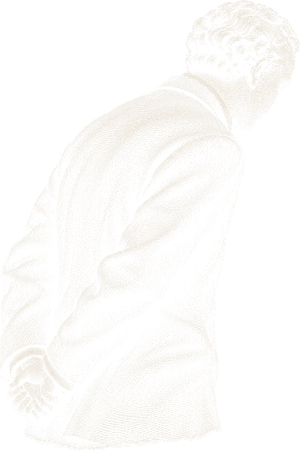
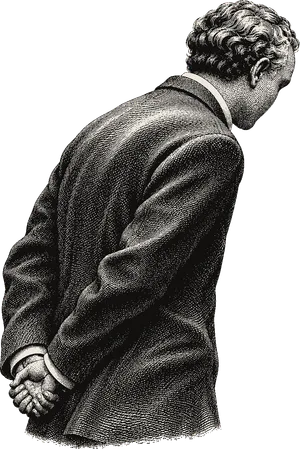
Chess story: club scene, smaller board with the professor's head over it
The board is smaller than the two people at it; the professor stands at its
left, printed solid so the board no longer shows through him, his head over
its far left squares. The author is smaller and further left. His quote moves
above the board, clear of both figures.

diff --git a/src/components/stories/chess/chess.module.css b/src/components/stories/chess/chess.module.css
@@ -193,9 +193,9 @@
   background: conic-gradient(var(--raised) 25%, var(--void) 0 50%, var(--raised) 0 75%, var(--void) 0) 0 0 / 25% 25%;
 }
 .ch-boardwrap { position: relative; width: min(54vh, 78%); aspect-ratio: 1; transition: width 600ms ease, transform 600ms ease; }
-/* At the club the professor stands beside the board, so the two together are
-   centred and sized to the scene: the pair is about 1.6 boards wide. */
-.ch-boardwrap[data-club="true"] { width: min(50vh, 60%); transform: translateX(25%); }
+/* At the club the board is one thing among three: the professor at its left,
+   you in front of it. The three together are centred in the scene. */
+.ch-boardwrap[data-club="true"] { width: min(60vh, 66%); transform: translate(10%, -12%); }
 .ch-boardwrap > .ch-board { position: absolute; inset: 0; z-index: 2; transition: transform 700ms cubic-bezier(0.2, 0.7, 0.2, 1); }
 .ch-boardwrap > .ch-board[data-small="true"] { transform: scale(0.09); }
 /* While the club's own board is on the table, the plain one steps aside. */
@@ -206,19 +206,20 @@
   z-index: 3; padding: 6px 12px; border: 1px solid var(--rule-strong); border-radius: 99px;
   background: var(--void); color: var(--ink-2); font: 500 11px / 1.3 var(--font-mono); letter-spacing: 0.04em; white-space: nowrap;
 }
-/* The club: the board as an object on the table, a little smaller than the
-   plain board so the people around it read as people at a table. */
-.ch-clubBoard { inset: 6% 8%; z-index: 3; display: grid; place-items: center; }
+/* The club: the board as an object on the table, small enough that the two
+   people at it are larger than it is. */
+.ch-clubBoard { inset: 12% 2% 12% 30%; z-index: 3; display: grid; place-items: center; }
 .ch-clubBoard img { display: block; width: 100%; height: auto; }
-/* A half figure on the far side of the table, behind the board's far left
-   corner, bowed over it: the board hides him from the waist down. */
-.ch-professor { z-index: 2; left: -38%; top: -10%; height: 100%; }
-/* You, nearest to us, at the middle of the board's near edge: we look over
-   your shoulder at the game. */
-.ch-me { z-index: 5; left: 8%; top: 62%; height: 118%; }
+/* A half figure standing at the board's left side and bowed over it: his head
+   is over the board's far left squares, so what he looks down at is the game. */
+.ch-professor { z-index: 4; left: -20%; top: 17%; height: 104%; }
+/* You, nearest to us, at the left of the board's near edge: we look over your
+   shoulder at the game. */
+.ch-me { z-index: 5; left: 20%; top: 69%; height: 88%; }
 /* both figures are cut at the waist: fade that edge out where the screen doesn't cut it */
 .ch-professor img, .ch-me img { display: block; width: auto; height: 100%; mask-image: linear-gradient(to bottom, #000 78%, transparent 98%); }
-.ch-said { z-index: 4; right: -12%; bottom: -8%; width: 74%; padding: 16px 18px; border: 1px solid var(--rule-strong); background: var(--void); }
+/* What he said stands above the board, beside his head, clear of both figures. */
+.ch-said { z-index: 6; left: 32%; right: -8%; bottom: 87%; padding: 16px 18px; border: 1px solid var(--rule-strong); background: var(--void); }
 .ch-minis { inset: -22% -34%; z-index: 1; display: grid; grid-template-columns: repeat(18, 1fr); gap: 5px; align-content: center; }
 .ch-minis b { aspect-ratio: 1; border: 1px solid var(--rule); background: var(--raised); }
 .ch-ask { z-index: 5; inset: 28% -8% auto; padding: 22px 24px; border: 1px solid var(--rule-strong); background: color-mix(in srgb, var(--void) 93%, transparent); }
@@ -323,9 +324,8 @@
   .ch-card { width: 100%; padding: 14px 16px 16px; background: color-mix(in srgb, var(--raised) 94%, transparent); }
   .ch-text.ch-cardText { font-size: 16px; }
   .ch-boardwrap { width: min(34svh, 60%); }
-  .ch-boardwrap[data-club="true"] { width: min(34svh, 58%); transform: translateX(24%); }
-  .ch-me { left: 14%; top: 64%; height: 100%; }
-  .ch-said { right: -16%; width: 90%; }
+  .ch-boardwrap[data-club="true"] { width: min(36svh, 62%); transform: translate(10%, -10%); }
+  .ch-said { left: -12%; right: -24%; bottom: 90%; padding: 12px 14px; }
   .ch-minis { inset: -14% -22%; grid-template-columns: repeat(12, 1fr); }
   .ch-pawnRow { grid-template-columns: minmax(0, 8.5rem) minmax(0, 1fr); gap: 10px; }
   .ch-pawnLabel b { font-size: 15px; }

diff --git a/src/components/stories/chess/scenes.js b/src/components/stories/chess/scenes.js
@@ -42,8 +42,8 @@ export const People = () => (
             <b key={index} />
           ))}
         </Show>
-        {/* The club: its own board, pink and white, and the professor
-            standing at its left, watching. */}
+        {/* The club: its own board, pink and white, the professor standing at
+            its left with his head over it, and you in front of it. */}
         <Show on={during(step, 2, 3)} className={c("ch-professor")}>
           <img
             src="/images/stories/chess/professor.webp"
@@ -51,7 +51,7 @@ export const People = () => (
             sizes="(max-width: 60rem) 45vw, 380px"
             alt="An older man in a dark jacket, seen from behind, bows over the board, his hands clasped behind his back."
             width={520}
-            height={780}
+            height={778}
             decoding="async"
           />
         </Show>
@@ -63,7 +63,7 @@ export const People = () => (
             sizes="(max-width: 60rem) 50vw, 420px"
             alt="The author, seen from behind, her long hair over her shoulders, bent over the board."
             width={560}
-            height={840}
+            height={951}
             decoding="async"
           />
         </Show>

diff --git a/scripts/stories/chess/README.md b/scripts/stories/chess/README.md
@@ -71,21 +71,17 @@ in a large and a phone width:
 - `club-board`: the board at the London chess club, pink and white with its
   plastic pieces set up, supplied by the author. Its faint specks (alpha under
   48) are dropped and it is trimmed; made at 1000 and 600 px wide.
-- `professor`: the professor at the London chess club, a half figure seen from
-  behind, engraved in the manner of every.to's figures and made with a GPT image
-  model to the prompts in the data-stories repository
-  (`chess-story/visuals/PROMPTS.md`, "PRINTED PEOPLE"). Printed for the page by
-  `make-print.cjs` in two inks, the page's dark and the site's ivory, in its crisp
-  setting so the engraved lines survive:
+- `professor` and `me-club`: the two people of the club scene, half figures
+  seen from behind: the professor standing at the board's left, bowed over it,
+  and the author in the foreground. Engraved in the manner of every.to's
+  figures and made with a GPT image model to the prompts in the data-stories
+  repository (`chess-story/visuals/PROMPTS.md`, "PRINTED PEOPLE"). Printed for
+  the page by `make-print.cjs` in two inks, the page's dark and the site's
+  ivory, in its crisp setting so the engraved lines survive. Both stand in
+  front of the board, so their dark ink is printed in the page's own dark
+  (`FILL=1`) and hides what is behind them instead of letting it show through:
 
-      PRINT=0,140,40,1.1 node make-print.cjs <repo>/node_modules/sharp <repo>/public/images/stories/chess "professor|input.png|520,300"
-
-- `me-club`: the author at the club, a half figure seen from behind, made and
-  printed the same way, in the foreground of the club scene. It stands in
-  front of the board, so its dark ink is printed in the page's own dark
-  (`FILL=1`) and hides what is behind it instead of letting it show through:
-
-      FILL=1 PRINT=0,140,40,1.1 node make-print.cjs <repo>/node_modules/sharp <repo>/public/images/stories/chess "me-club|input.png|560,320"
+      FILL=1 PRINT=0,140,40,1.1 node make-print.cjs <repo>/node_modules/sharp <repo>/public/images/stories/chess "professor|input.png|520,300" "me-club|input.png|560,320"
 
 - `phone`: a phone with a Chess.com game about to begin, supplied by the
   author. Made at `800,480` from a copy in which the opponent's username and
